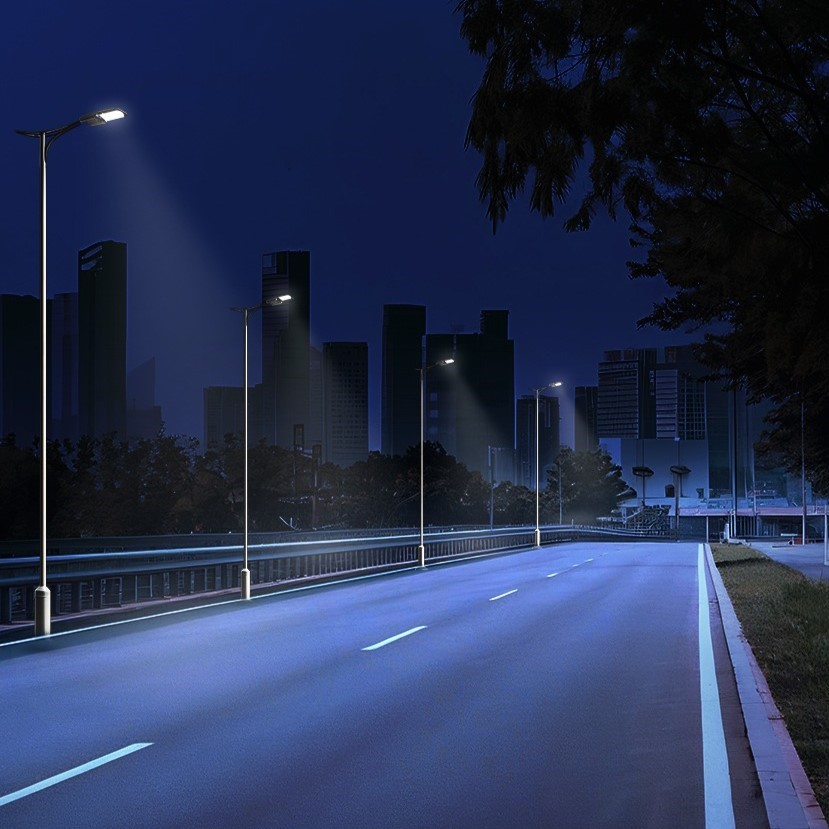
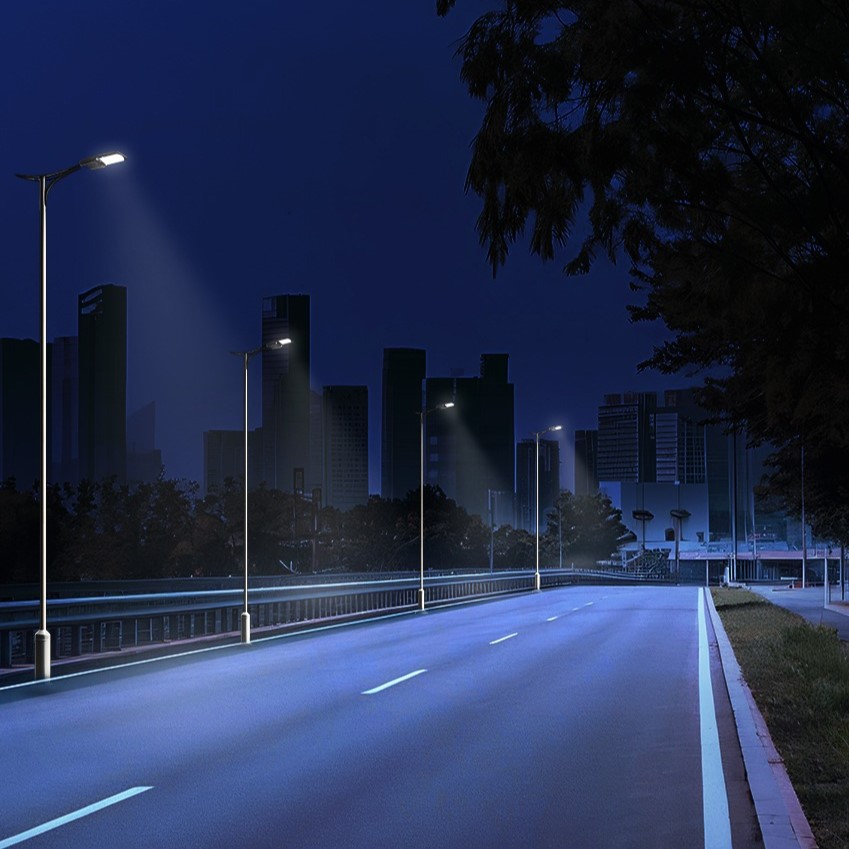
product page done

diff --git a/products.html b/products.html
@@ -223,27 +223,23 @@
                     <div class="card-slider">
                         <!-- Card 1 -->
                         <div class="card">
-                            <img src="assets/images/product-slider/image-1.jpg" alt="Card-Image" loading="lazy">
+                            <img src="assets/images/product-slider/product-slide-1.jpg" alt="Card-Image" loading="lazy">
                         </div>
                         <!-- Card 2 -->
                         <div class="card">
-                            <img src="assets/images/product-slider/image-2.jpg" alt="Card-Image" loading="lazy">
+                            <img src="assets/images/product-slider/product-slide-2.jpg" alt="Card-Image" loading="lazy">
                         </div>
                         <!-- Card 3 -->
                         <div class="card">
-                            <img src="assets/images/product-slider/image-3.jpg" alt="Card-Image" loading="lazy">
+                            <img src="assets/images/product-slider/product-slide-3.jpg" alt="Card-Image" loading="lazy">
                         </div>
                         <!-- Card 4 -->
                         <div class="card">
-                            <img src="assets/images/product-slider/image-4.jpg" alt="Card-Image" loading="lazy">
+                            <img src="assets/images/product-slider/product-slide-4.jpg" alt="Card-Image" loading="lazy">
                         </div>
                         <!-- Card 5 -->
                         <div class="card">
-                            <img src="assets/images/product-slider/image-5.jpg" alt="Card-Image" loading="lazy">
-                        </div>
-                        <!-- Card 6 -->
-                        <div class="card">
-                            <img src="assets/images/product-slider/image-6.jpg" alt="Card-Image" loading="lazy">
+                            <img src="assets/images/product-slider/product-slide-5.jpg" alt="Card-Image" loading="lazy">
                         </div>
                     </div>
                 </div>

diff --git a/assets/js/script.js b/assets/js/script.js
@@ -16,6 +16,23 @@ document.querySelectorAll('.rounded-card').forEach((card, index) => {
 
 // ---------------------------------------------------------------------------------------------------------------------------------------
 
+// Functionality For Product Page Cards Slider Hover
+document.querySelectorAll('.slider-container .card').forEach((card, index) => {
+  let img = card.querySelector('img');
+  let originalSrc = `assets/images/product-slider/product-slide-${index + 1}.jpg`;
+  let hoverSrc = `assets/images/product-slider/product-slide-${index + 1}-light.jpg`;
+
+  img.addEventListener('mouseenter', () => {
+      img.setAttribute('src', hoverSrc);
+  });
+
+  img.addEventListener('mouseleave', () => {
+      img.setAttribute('src', originalSrc);
+  });
+});
+
+// ---------------------------------------------------------------------------------------------------------------------------------------
+
 
 // Functionality For Home Page Banner Slider
 document.addEventListener("DOMContentLoaded", function () {
